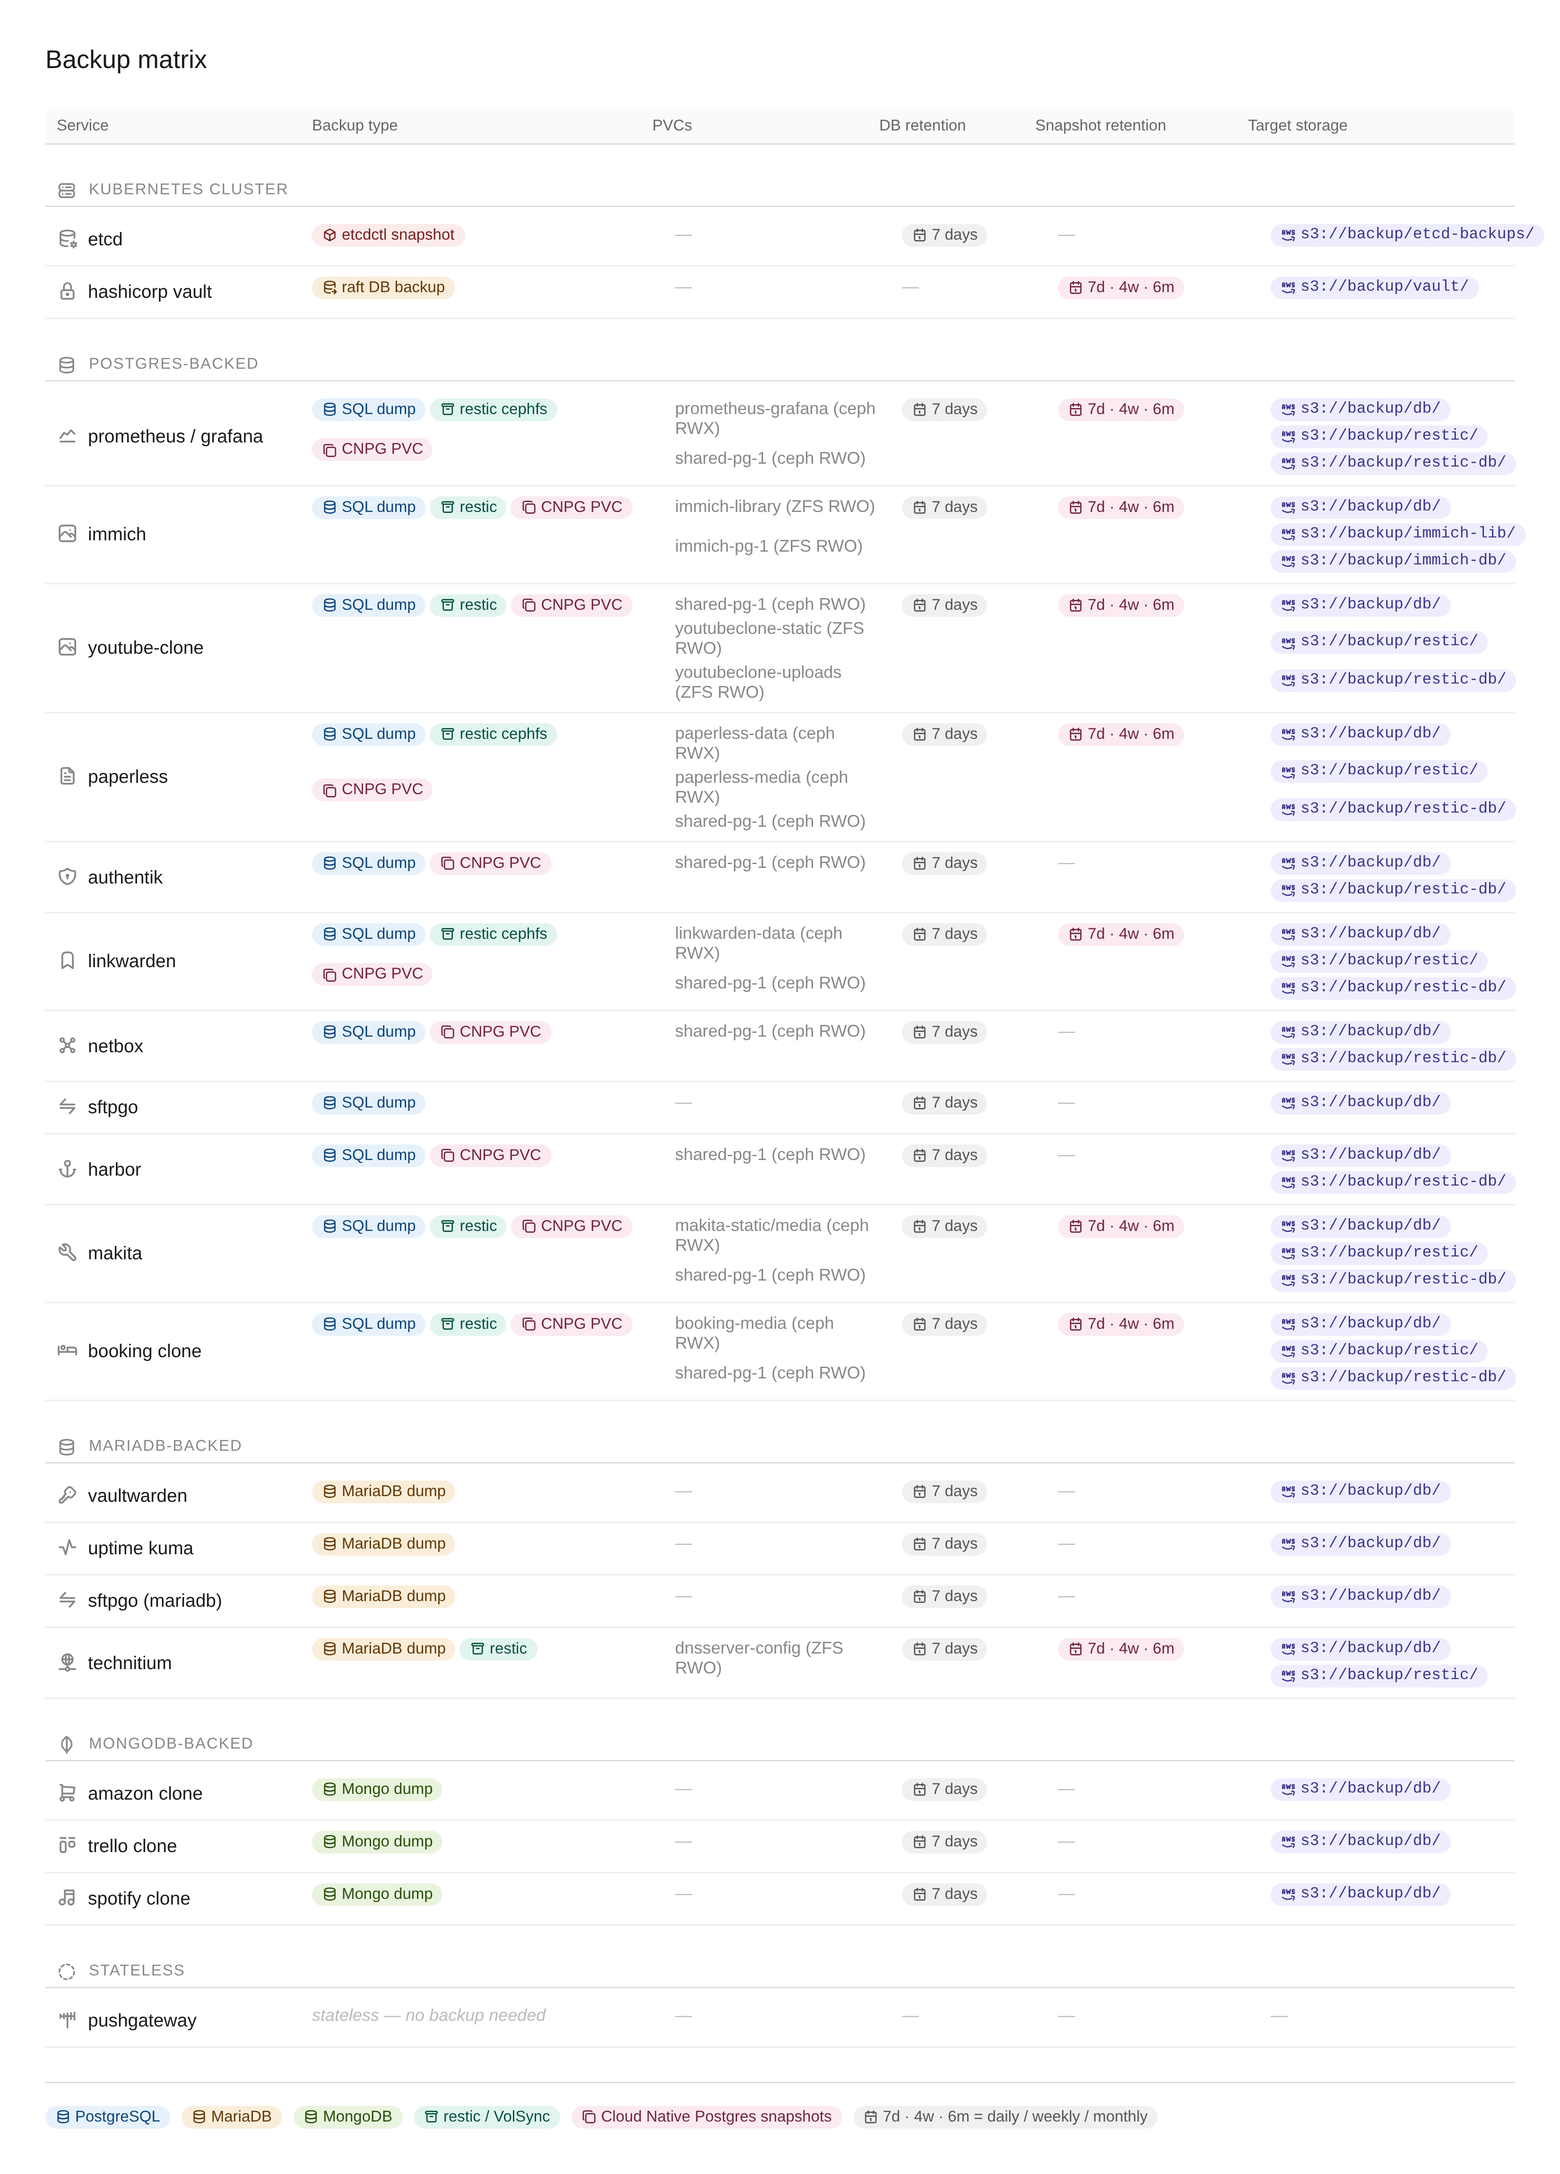
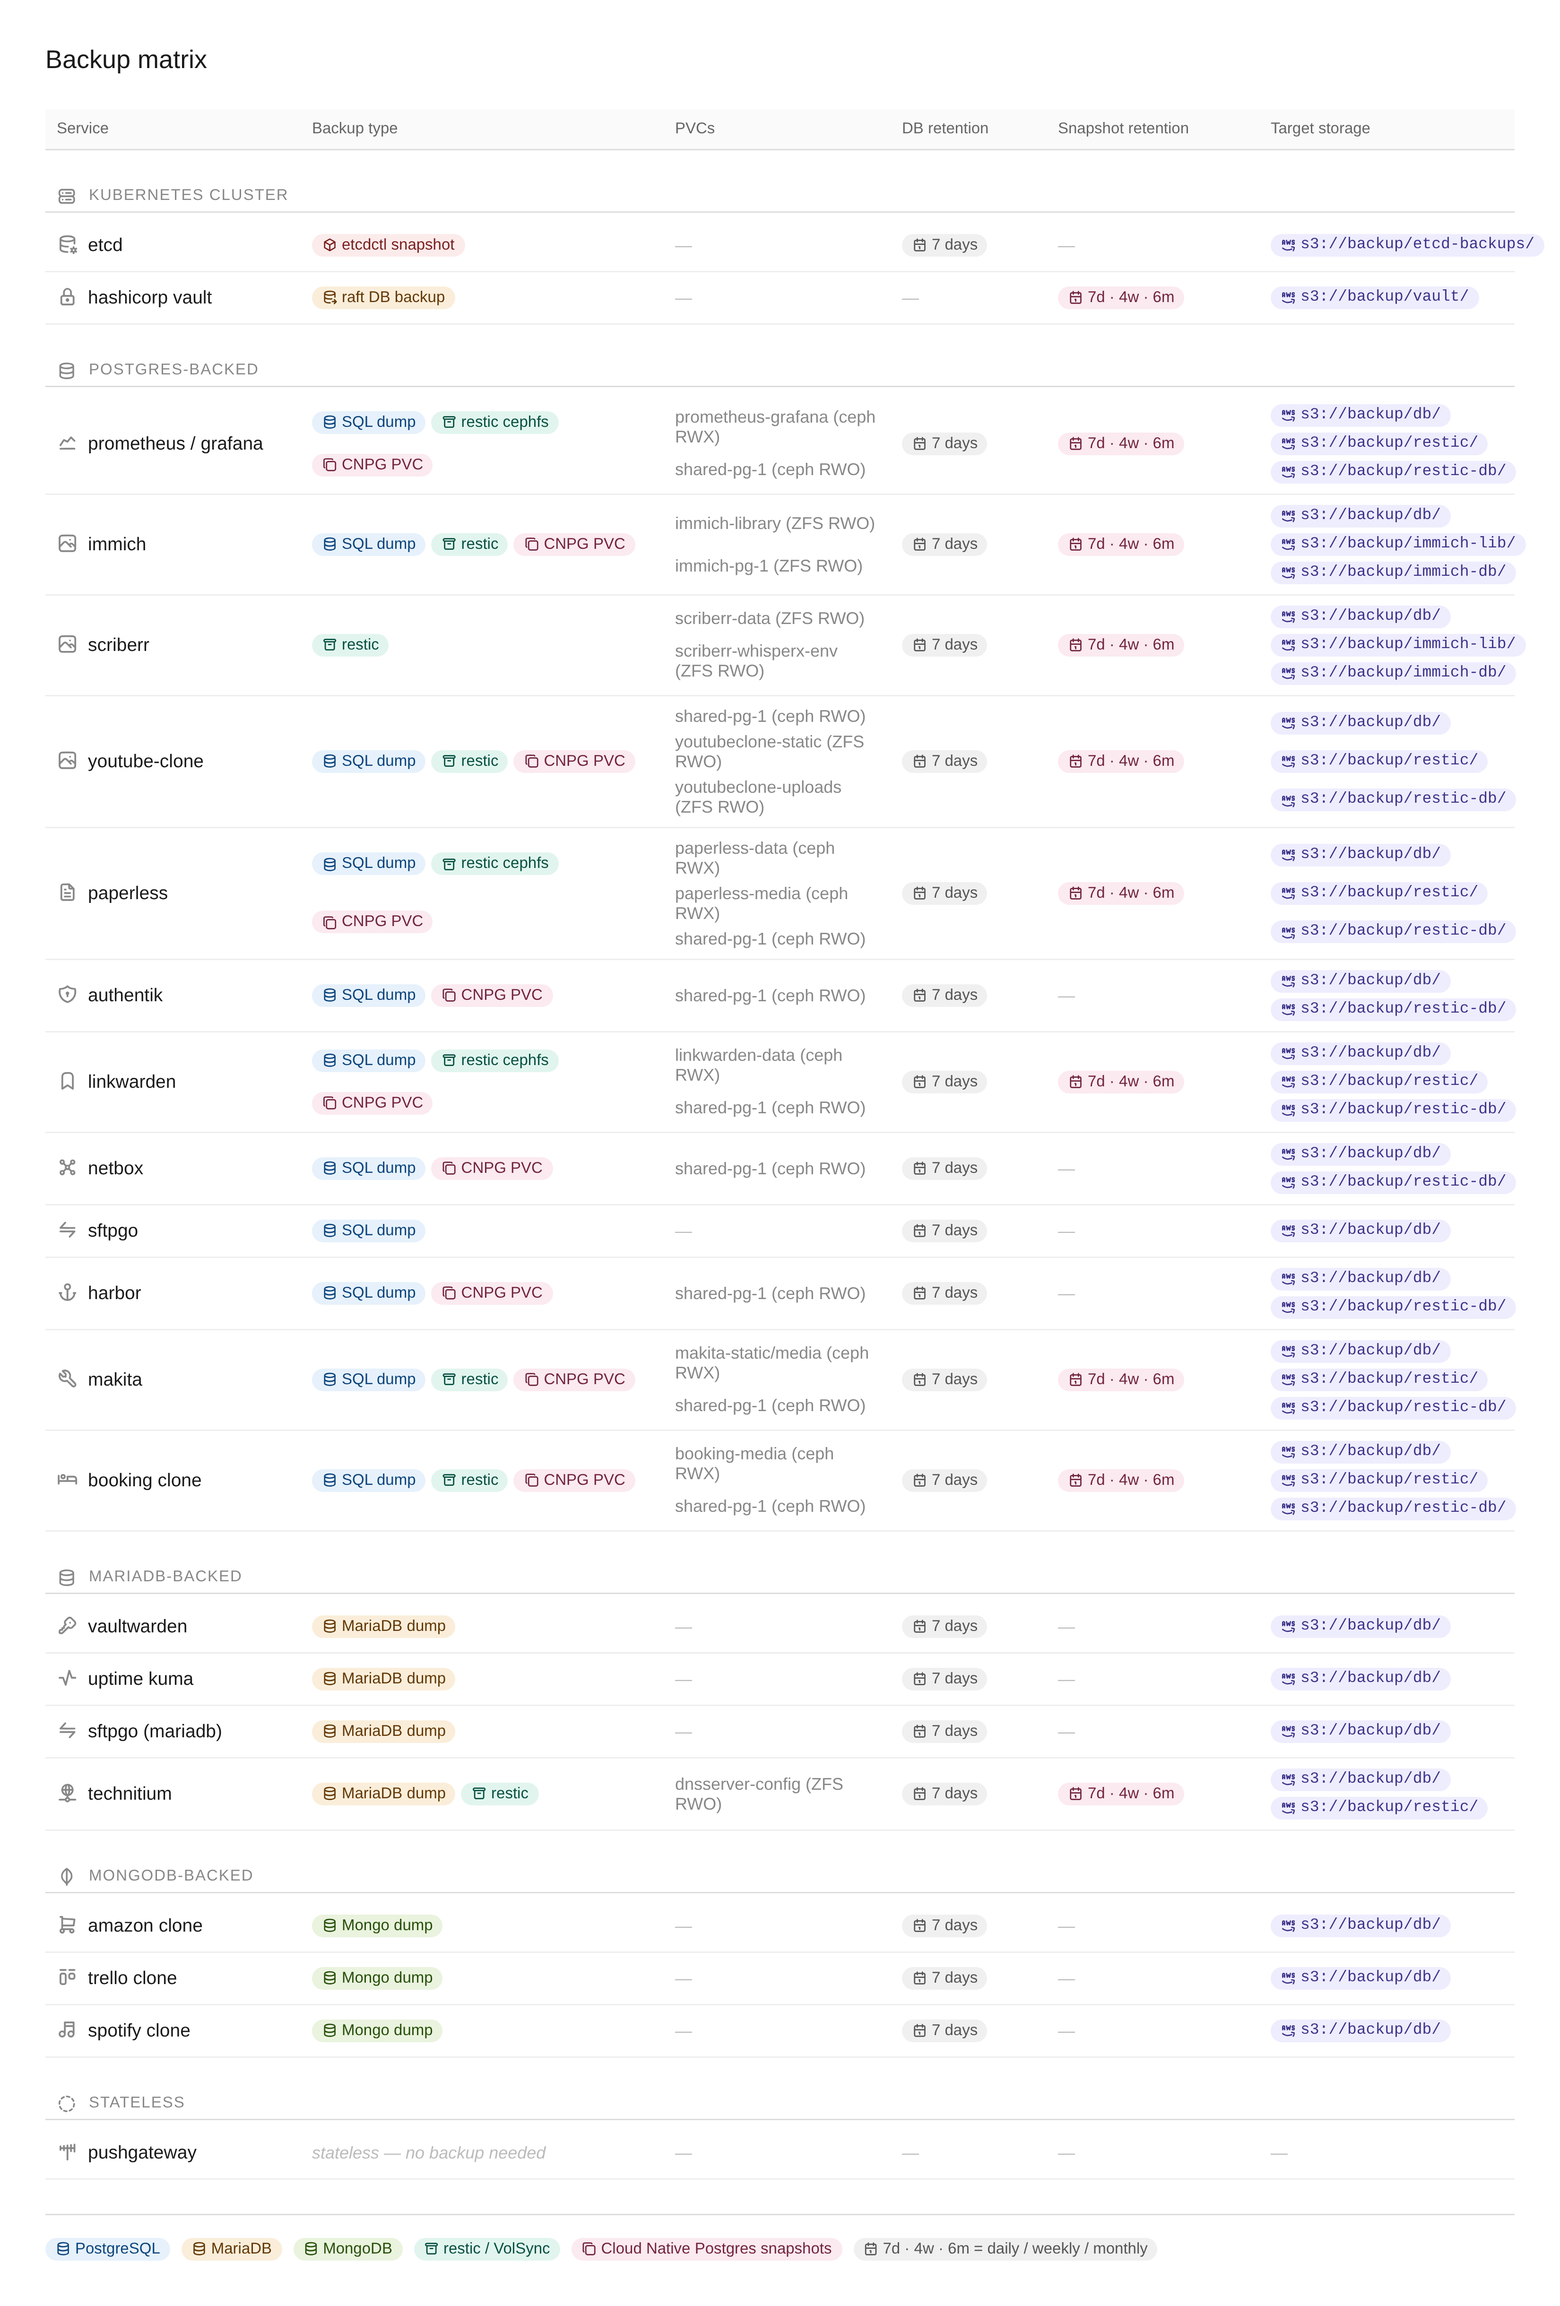
scriberr docs

diff --git a/backup-matrix/backup-matrix.html b/backup-matrix/backup-matrix.html
@@ -10,14 +10,21 @@
   body { background: #fff; color: #1a1a1a; font-family: -apple-system, BlinkMacSystemFont, 'Segoe UI', sans-serif; font-size: 13px; padding: 2rem; }
   .bm { max-width: 1200px; margin: 0 auto; }
   h1 { font-size: 18px; font-weight: 500; margin-bottom: 1.5rem; color: #1a1a1a; }
-  .col-head { display: grid; grid-template-columns: 180px 1fr 160px 110px 150px 180px; gap: 0; padding: 6px 8px; font-size: 11px; font-weight: 500; color: #666; border-bottom: 1px solid #ddd; background: #fafafa; }
+  
+  /* Fixed header layout to perfectly match data row grid geometry */
+  .col-head { display: grid; grid-template-columns: 180px 1fr 160px 110px 150px 180px; gap: 0; border-bottom: 1px solid #ddd; background: #fafafa; }
+  .head-cell { padding: 8px; font-size: 11px; font-weight: 500; color: #666; display: flex; align-items: center; }
+  
   .row { display: grid; grid-template-columns: 180px 1fr 160px 110px 150px 180px; gap: 0; border-bottom: 0.5px solid #eee; }
   .row:hover { background: #f9f9f9; }
   .section-header { display: flex; align-items: center; gap: 8px; padding: 6px 8px 4px; margin: 1.2rem 0 0.3rem; border-bottom: 0.5px solid #ddd; font-size: 11px; font-weight: 500; text-transform: uppercase; letter-spacing: 0.06em; color: #888; }
   .section-header i { font-size: 14px; }
-  .cell { padding: 7px 8px; display: flex; align-items: flex-start; flex-wrap: wrap; gap: 3px; min-height: 36px; }
-  .svc { align-items: center; font-weight: 500; color: #1a1a1a; gap: 7px; flex-wrap: nowrap; }
+  
+  /* Adjusted alignment to center for better vertical distribution */
+  .cell { padding: 7px 8px; display: flex; align-items: center; flex-wrap: wrap; gap: 4px; min-height: 36px; }
+  .svc { font-weight: 500; color: #1a1a1a; gap: 7px; flex-wrap: nowrap; }
   .svc i { font-size: 15px; color: #888; flex-shrink: 0; }
+  
   .tag { display: inline-flex; align-items: center; gap: 3px; padding: 2px 7px; border-radius: 10px; font-size: 11px; font-weight: 500; white-space: nowrap; }
   .tag i { font-size: 11px; }
   .tag-pg      { background: #E6F1FB; color: #0C447C; }
@@ -28,6 +35,7 @@
   .tag-etcd    { background: #FCEBEB; color: #791F1F; }
   .tag-vault   { background: #FAEEDA; color: #633806; }
   .tag-neutral { background: #f0f0f0; color: #555; }
+  
   .s3path { font-family: 'SFMono-Regular', Consolas, 'Liberation Mono', Menlo, monospace; font-size: 11px; color: #3C3489; background: #EEEDFE; padding: 2px 7px; border-radius: 10px; white-space: nowrap; display: inline-flex; align-items: center; gap: 3px; }
   .s3path i { font-size: 11px; }
   .muted  { color: #888; font-size: 12px; width: 100%; }
@@ -40,12 +48,12 @@
   <h1>Backup matrix</h1>
 
   <div class="col-head">
-    <div>Service</div>
-    <div>Backup type</div>
-    <div>PVCs</div>
-    <div>DB retention</div>
-    <div>Snapshot retention</div>
-    <div>Target storage</div>
+    <div class="head-cell">Service</div>
+    <div class="head-cell">Backup type</div>
+    <div class="head-cell">PVCs</div>
+    <div class="head-cell">DB retention</div>
+    <div class="head-cell">Snapshot retention</div>
+    <div class="head-cell">Target storage</div>
   </div>
 
   <div class="section-header"><i class="ti ti-server-2"></i> Kubernetes cluster</div>
@@ -89,6 +97,15 @@
   </div>
 
   <div class="row">
+    <div class="cell svc"><i class="ti ti-photo"></i> scriberr</div>
+    <div class="cell"><span class="tag tag-restic"><i class="ti ti-archive"></i>restic</span></div>
+    <div class="cell"><span class="muted">scriberr-data (ZFS RWO)</span><span class="muted">scriberr-whisperx-env (ZFS RWO)</span></div>
+    <div class="cell"><span class="tag tag-neutral"><i class="ti ti-calendar"></i>7 days</span></div>
+    <div class="cell"><span class="tag tag-snap"><i class="ti ti-calendar"></i>7d · 4w · 6m</span></div>
+    <div class="cell"><span class="s3path"><i class="ti ti-brand-aws"></i>s3://backup/db/</span><span class="s3path"><i class="ti ti-brand-aws"></i>s3://backup/immich-lib/</span><span class="s3path"><i class="ti ti-brand-aws"></i>s3://backup/immich-db/</span></div>
+  </div>
+
+  <div class="row">
     <div class="cell svc"><i class="ti ti-photo"></i> youtube-clone</div>
     <div class="cell"><span class="tag tag-pg"><i class="ti ti-database"></i>SQL dump</span><span class="tag tag-restic"><i class="ti ti-archive"></i>restic</span><span class="tag tag-snap"><i class="ti ti-copy"></i>CNPG PVC</span></div>
     <div class="cell"><span class="muted">shared-pg-1 (ceph RWO)</span><span class="muted">youtubeclone-static (ZFS RWO)</span><span class="muted">youtubeclone-uploads (ZFS RWO)</span></div>
@@ -96,7 +113,6 @@
     <div class="cell"><span class="tag tag-snap"><i class="ti ti-calendar"></i>7d · 4w · 6m</span></div>
     <div class="cell"><span class="s3path"><i class="ti ti-brand-aws"></i>s3://backup/db/</span><span class="s3path"><i class="ti ti-brand-aws"></i>s3://backup/restic/</span><span class="s3path"><i class="ti ti-brand-aws"></i>s3://backup/restic-db/</span></div>
   </div>
-
 
   <div class="row">
     <div class="cell svc"><i class="ti ti-file-text"></i> paperless</div>

diff --git a/README.md b/README.md
@@ -98,7 +98,7 @@ This is the repository I use to version control the kubernetes cluster I deploy 
 |---|---|---|
 | 🌐 | **Open WebUI** | Frontend for Ollama / OpenAI APIs with RAG and chat |
 | <img src="./icons/homeassistant.svg" width="16"/> | **Frigate** | NVR with real-time object detection |
-| 🌐 | **Scriberr** | Whisper-based transcription service |
+| <img src="./icons/scriberr.svg" width="16"/> | **Scriberr** | Voice transcription service powered by OpenAI Whisper running locally. Accepts audio uploads or real-time mic input and returns structured transcripts |
 | <img src="./icons/googlephotos.svg" width="16"/> | **Immich** | Self-hosted photo management with ML tagging |
 
 ### 6. My Projects
